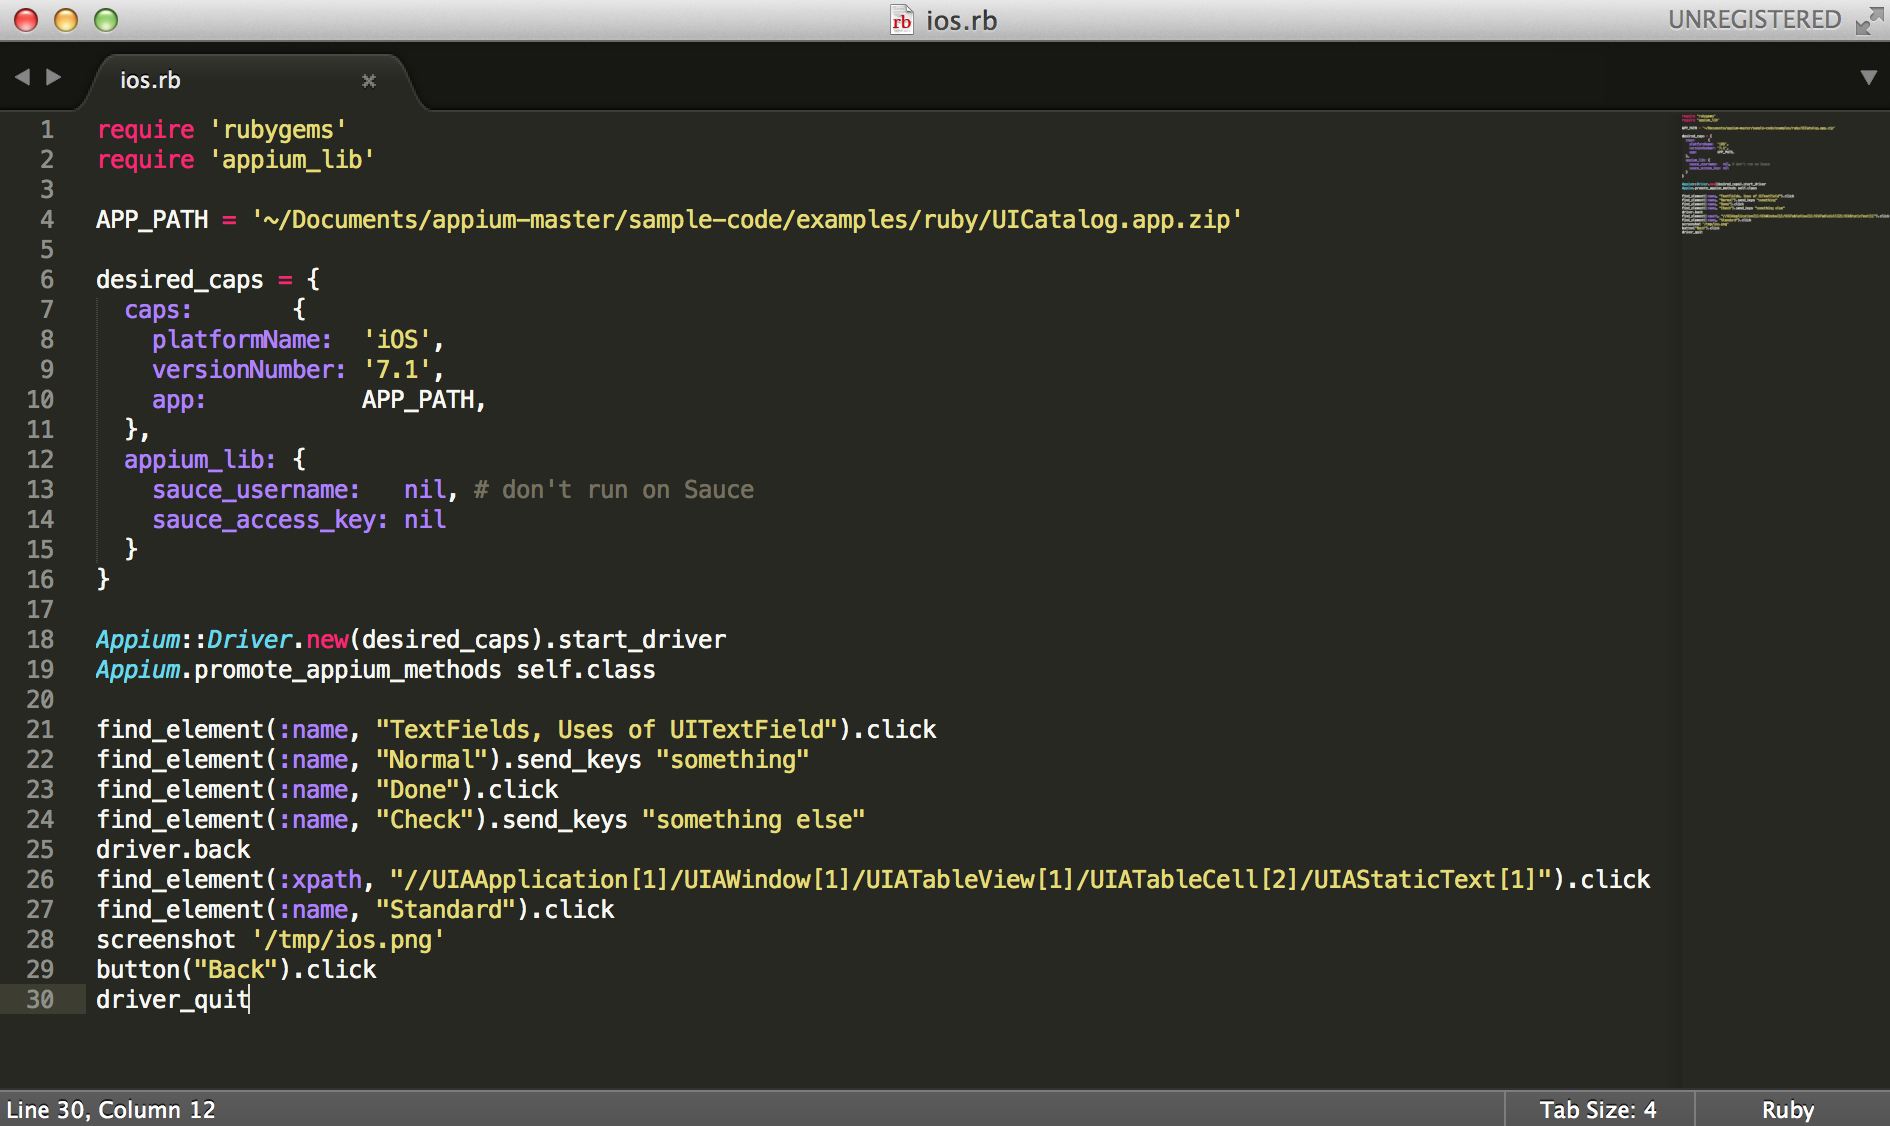
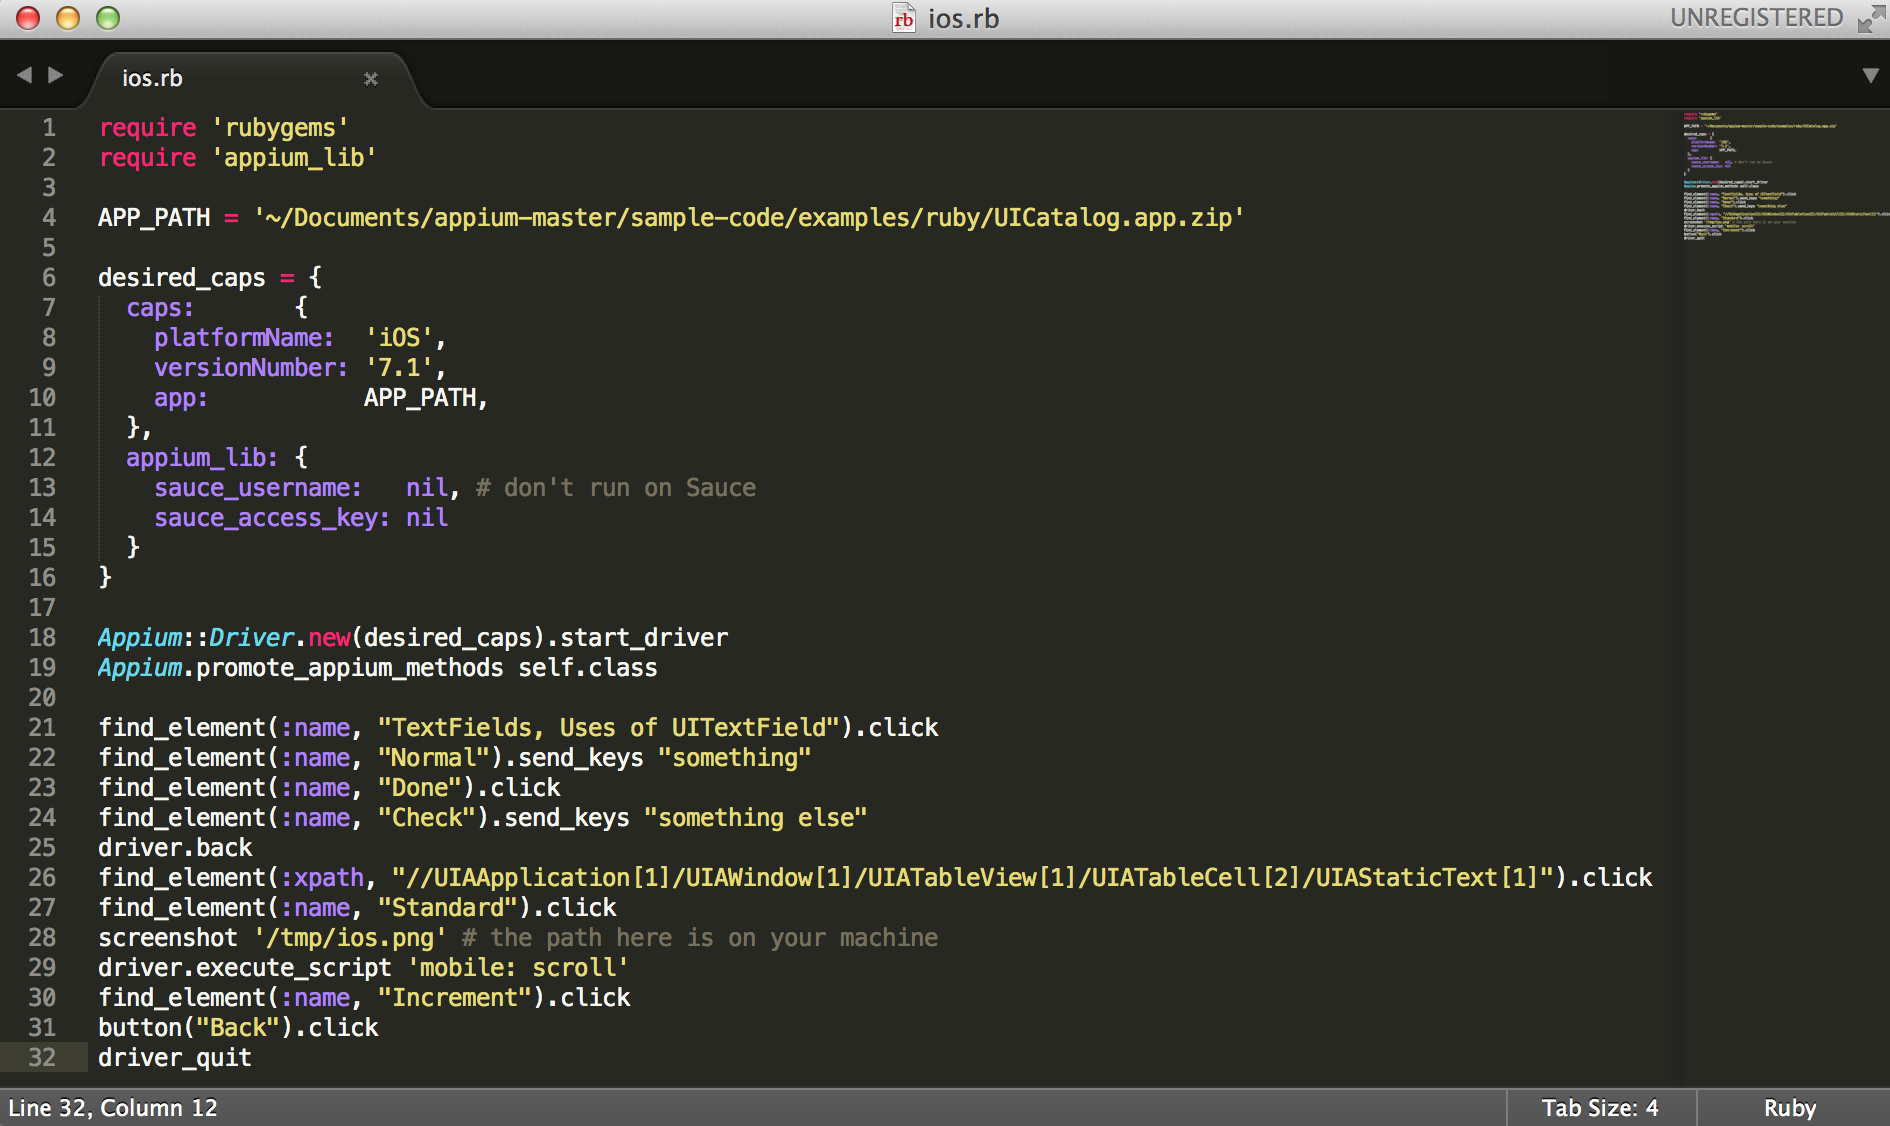
Add steps of iOS gesture.

diff --git a/scripts/ios.rb b/scripts/ios.rb
@@ -25,6 +25,8 @@ find_element(:name, "Check").send_keys "something else"
 driver.back
 find_element(:xpath, "//UIAApplication[1]/UIAWindow[1]/UIATableView[1]/UIATableCell[2]/UIAStaticText[1]").click
 find_element(:name, "Standard").click
-screenshot '/tmp/ios.png'
+screenshot '/tmp/ios.png' # the path here is on your machine
+driver.execute_script 'mobile: scroll'
+find_element(:name, "Increment").click
 button("Back").click
 driver_quit

diff --git a/write_script_for_ios_app/perform_actions_in_controls.md b/write_script_for_ios_app/perform_actions_in_controls.md
@@ -28,6 +28,16 @@ We can use Selenium-WebDriver method `screenshot` to help us keep record of curr
 
 ![Alt text](https://raw.githubusercontent.com/hy1984427/appium/master/images/ios_script_screenshot.png "Take screenshot")
 
+There are some gestures we can perform, such as "scroll". Let's practice it with the scenario to scroll down and increase the "UISTEPPER".
+
+We can simply use `driver.execute_script 'mobile: scroll'` to scroll down. The scrren should look like:
+
+![Alt text](https://raw.githubusercontent.com/hy1984427/appium/master/images/ios_script_scroll_down.png "Scroll down")
+
+And for the increasement, we can use `find_element(:name, "Increment").click`. The screen should look like:
+
+![Alt text](https://raw.githubusercontent.com/hy1984427/appium/master/images/ios_script_increase_uistepper.png "Increase UISTEPPER")
+
 And we can use another way to navigate back: `button("Back").click`.
 
 At last, we can use `driver_quit` to close the driver and to end the test.
@@ -62,6 +72,8 @@ driver.back
 find_element(:xpath, "//UIAApplication[1]/UIAWindow[1]/UIATableView[1]/UIATableCell[2]/UIAStaticText[1]").click
 find_element(:name, "Standard").click
 screenshot '/tmp/ios.png' # the path here is on your machine
+driver.execute_script 'mobile: scroll'
+find_element(:name, "Increment").click
 button("Back").click
 driver_quit
 </code></pre>
